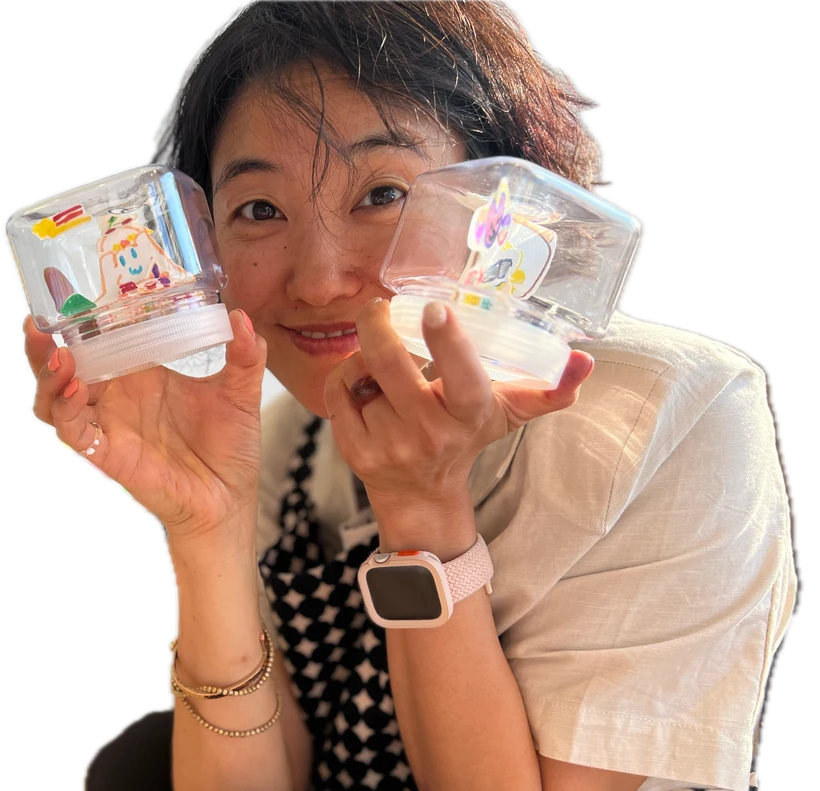
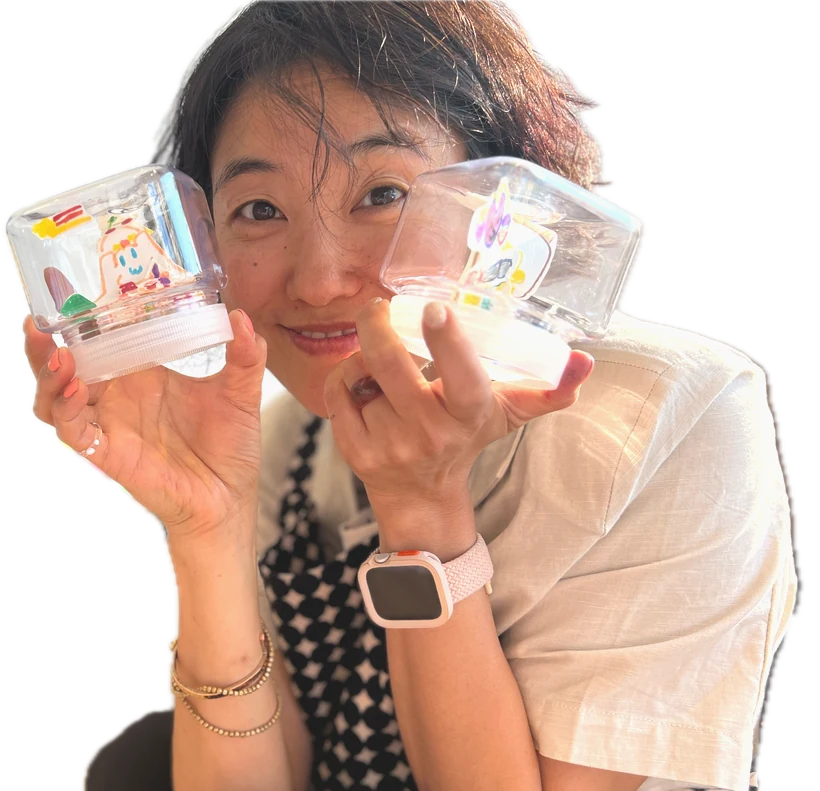
홈 소개 사진 밝기 조정 — 그늘만 들어올리고 전체를 살짝 밝게(대비 -4%, 채도 +4%)

diff --git a/index.html b/index.html
@@ -91,7 +91,7 @@
   <section class="host" id="hanna">
     <div class="host__in">
       <div class="host__art host__art--cut" aria-hidden="false">
-        <img class="host__cut" src="/photos/hanna-cut.webp" alt="쪼이들이 만든 작품을 든 올리한나" width="820" height="791">
+        <img class="host__cut" src="/photos/hanna-cut.webp?v=2" alt="쪼이들이 만든 작품을 든 올리한나" width="820" height="791">
         <img class="host__pal" src="/fall/dori.png" alt="" aria-hidden="true">
       </div>
       <div class="host__text">
